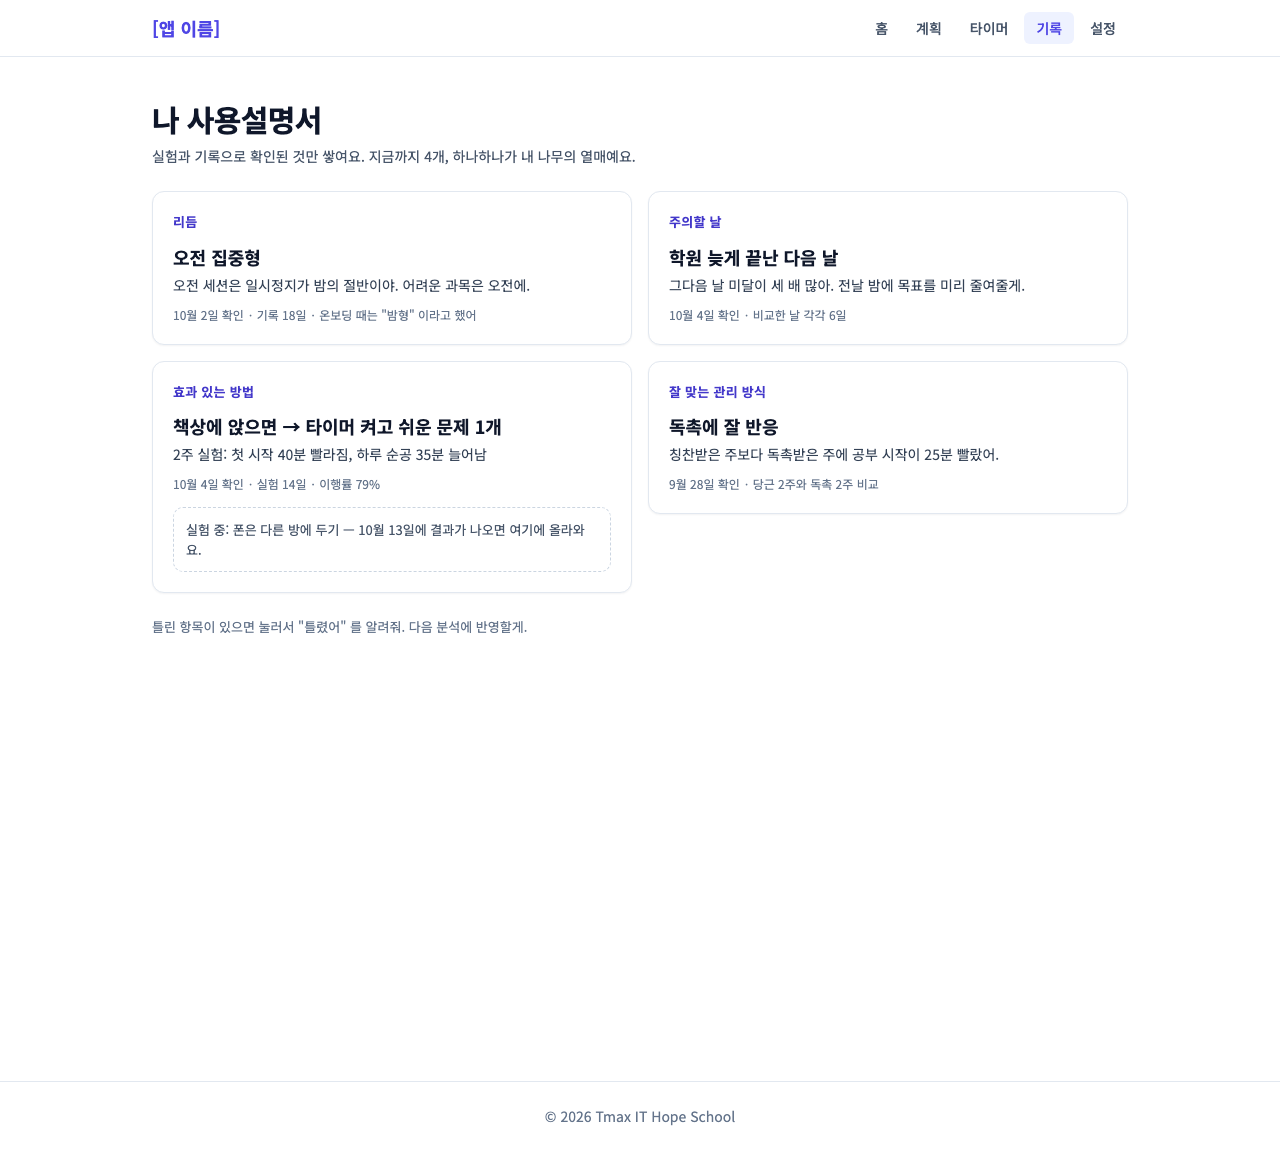
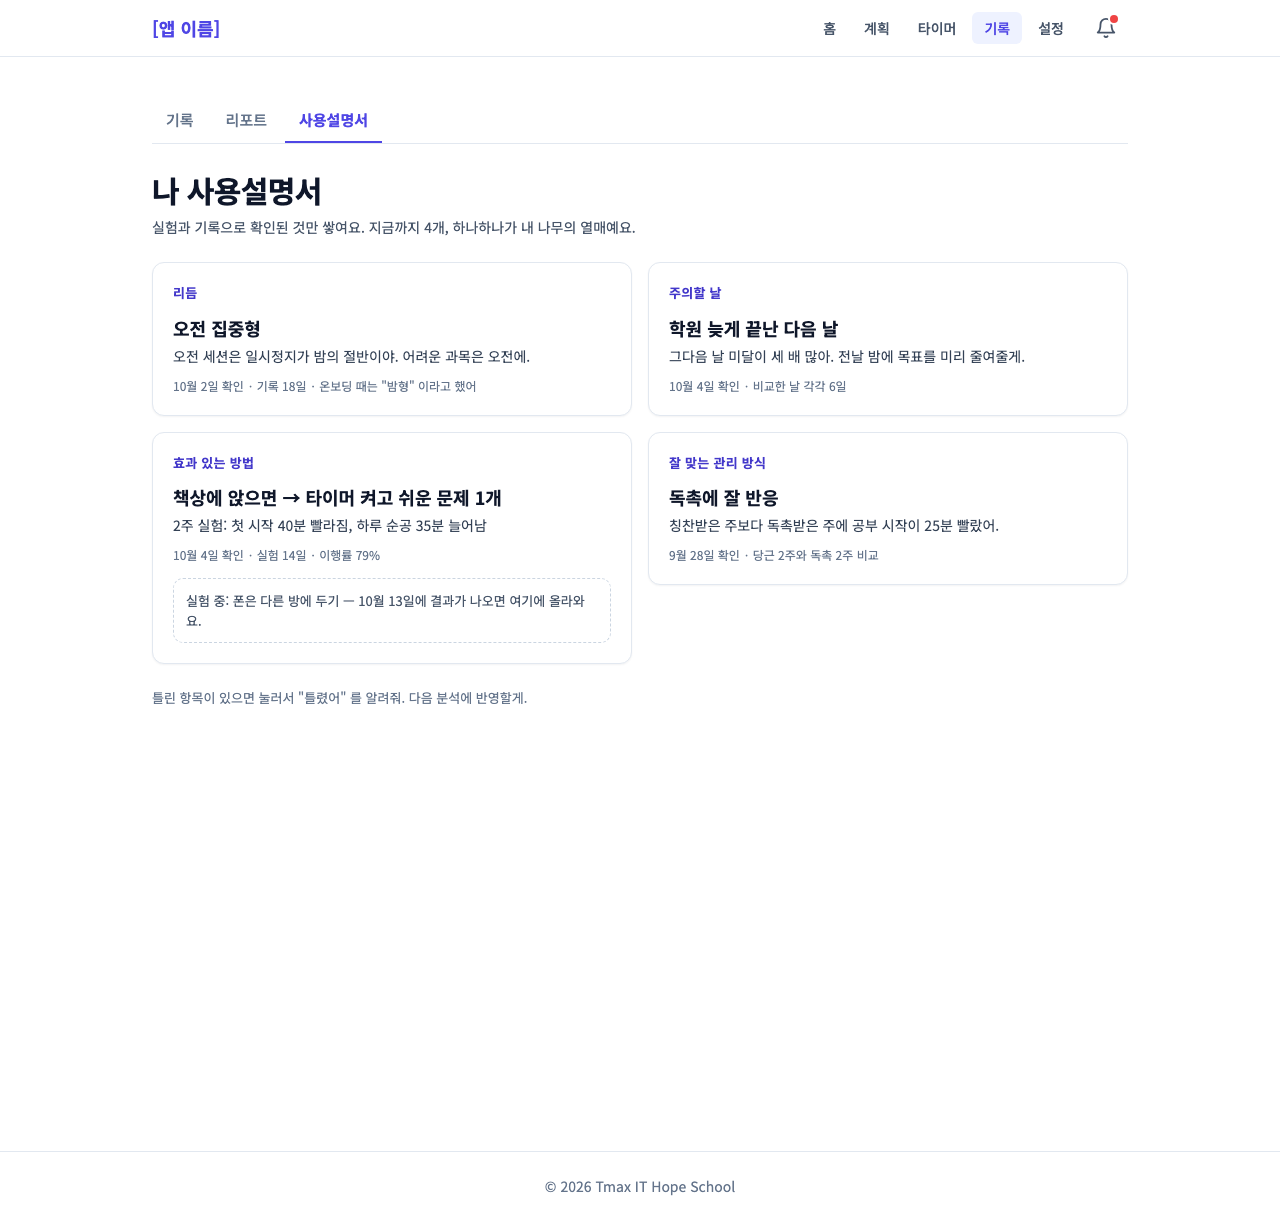
docs: 빠진 화면 시안 추가하고 메뉴 구조대로 안내 정리
로그인·가입·계획·기록·메시지함·시험·일기·월간 리포트·개선안·통화 중·
집중 모드·도움 안내 등 화면 그림을 추가해 51장(375px·1280px)으로 늘리고,
README 를 메뉴 구조(하단 탭·헤더 종 아이콘·기록 하위 탭) 기준으로 다시 정리했습니다.

diff --git a/docs/design/README.md b/docs/design/README.md
@@ -4,98 +4,125 @@
 
 - 데스크톱: 폭 1280px / 모바일: 폭 375px (프로젝트 기준 폭, CLAUDE.md 4장)
 - 그 사이 폭(태블릿)은 그림이 없습니다 → 아래 [반응형으로 만들 때](#반응형으로-만들-때) 를 따릅니다
-- 그림 파일: [`screens/`](./screens/) — 이름 규칙 `<화면>-desktop.png`, `<화면>-mobile.png`
+- 그림 파일: [`screens/`](./screens/) — 이름 규칙 `<화면>-desktop.png`, `<화면>-mobile.png` (모바일 전용 화면은 `-mobile.png` 만)
 
 ## 어떻게 쓰나요?
 
-1. 화면 이슈를 맡으면 아래 표에서 그 화면을 찾아 **데스크톱·모바일 그림을 둘 다** 봅니다.
+1. 화면 이슈를 열면 본문의 **"## 시안"** 칸에 볼 그림이 적혀 있습니다. 데스크톱·모바일 그림을 **둘 다** 봅니다.
 2. Claude 에게 맡길 때는 그림 경로를 같이 알려 주세요.
    > `docs/design/screens/checkin-mobile.png` 과 `checkin-desktop.png` 보고 #24 체크인 화면 만들어줘
 3. 시안은 **모양 참고용**입니다. 부딪히면 이 순서로 따릅니다.
    **[CLAUDE.md](../../CLAUDE.md) 규칙 > 이슈의 완료 조건 > 시안**
 4. 그림 속 숫자·날짜·문구는 전부 **예시**입니다. 실제 값은 데이터(`src/lib/mock.ts` 등)에서 가져옵니다.
 
+## 메뉴 구조
+
+| 자리                          | 들어가는 것                                                      | 관련 이슈 |
+| ----------------------------- | ---------------------------------------------------------------- | --------- |
+| 하단 탭(모바일) · 헤더(PC)    | 홈 · 계획 · 타이머 · 기록 · 설정                                 | #8        |
+| 헤더 오른쪽 종 아이콘         | 메시지함 (빨간 점 = 안 읽은 메시지)                              | #102      |
+| 기록 탭 안 하위 탭            | 기록 · 리포트 · 사용설명서 (리포트 안에 주간 \| 월간)            | #101      |
+| 기록 화면의 카드              | 시험 · 일기                                                      | #80, #63  |
+| 리포트의 "개선안 고르러 가기" | 개선안 고르기                                                    | #64       |
+| 타이머                        | 집중 모드                                                        | #69       |
+| 홈의 버튼                     | 매일 체크인 (통화를 못 받은 날)                                  | #24       |
+| 탭 없이 뜨는 화면             | 전화 수신 · 통화 중 · 로그인 · 가입 · 온보딩 · 위기 시 도움 안내 |           |
+
 ## 화면 목록
 
-### 홈
+### 1. 로그인 · 회원가입
+
+흐름: 로그인 → (SNS 로그인 처리 중 #47) → 가입 정보·동의 → 온보딩 질문 → 준비 끝 → 홈. 만 14세 미만을 고르면 가입 불가 안내.
+
+| 화면           | 데스크톱                                                    | 모바일                                                     | 관련 이슈   |
+| -------------- | ----------------------------------------------------------- | ---------------------------------------------------------- | ----------- |
+| 로그인         | <img src="screens/login-desktop.png" width="360">           | <img src="screens/login-mobile.png" width="180">           | #46         |
+| 가입 정보·동의 | <img src="screens/signup-desktop.png" width="360">          | <img src="screens/signup-mobile.png" width="180">          | #50         |
+| 만 14세 미만   |                                                             | <img src="screens/signup-under14-mobile.png" width="180">  | #50         |
+| 온보딩 질문    | <img src="screens/onboarding-desktop.png" width="360">      | <img src="screens/onboarding-mobile.png" width="180">      | #58 #88 #89 |
+| 준비 끝        | <img src="screens/onboarding-done-desktop.png" width="360"> | <img src="screens/onboarding-done-mobile.png" width="180"> | #103        |
+
+### 2. 홈
 
 관리 모드와 이유 · 어제 한 줄 · 첫 리포트 카운트다운 · 나무 · 오늘 계획 · 인사이트(가설) · 도전 중인 실험
 
 | 데스크톱                                         | 모바일                                          |
 | ------------------------------------------------ | ----------------------------------------------- |
-| <img src="screens/home-desktop.png" width="480"> | <img src="screens/home-mobile.png" width="220"> |
+| <img src="screens/home-desktop.png" width="480"> | <img src="screens/home-mobile.png" width="200"> |
 
-관련 이슈: #94 관리 모드 · #85 한 줄·카운트다운 · #68 나무 · #73 #84 인사이트 · #93 실험 카드 · #12 오늘 계획
+관련 이슈: #94 관리 모드 · #85 한 줄·카운트다운 · #68 나무 · #73 #84 인사이트 · #93 실험 카드 · #102 메시지함 아이콘
 
-### 매일 체크인
+### 3. 공부 계획
+
+날짜 이동 · 오늘 계획(완료 체크·삭제) · 계획 추가 · 내 과목(색 지정)
+
+| 데스크톱                                         | 모바일                                          |
+| ------------------------------------------------ | ----------------------------------------------- |
+| <img src="screens/plan-desktop.png" width="480"> | <img src="screens/plan-mobile.png" width="200"> |
+
+관련 이슈: #11 #13 #15 #16 #17 (#12 #14 는 시안 전에 완료)
+
+### 4. 타이머 · 집중 모드
+
+| 화면           | 데스크톱                                          | 모바일                                                  | 관련 이슈            |
+| -------------- | ------------------------------------------------- | ------------------------------------------------------- | -------------------- |
+| 타이머         | <img src="screens/timer-desktop.png" width="360"> | <img src="screens/timer-mobile.png" width="180">        | #18 ~ #22, #44       |
+| 집중 모드      | <img src="screens/focus-desktop.png" width="360"> | <img src="screens/focus-mobile.png" width="180">        | #69                  |
+| 집중 모드 해제 |                                                   | <img src="screens/focus-unlock-mobile.png" width="180"> | #69 (10초 대기·사유) |
+
+### 5. 매일 체크인
 
 어제 요약 · 컨디션 · 기분 · 미달 원인 · 오늘 예상 순공 · 개선안 실천 · 오늘의 약속
 
 | 데스크톱                                            | 모바일                                             |
 | --------------------------------------------------- | -------------------------------------------------- |
-| <img src="screens/checkin-desktop.png" width="480"> | <img src="screens/checkin-mobile.png" width="220"> |
+| <img src="screens/checkin-desktop.png" width="480"> | <img src="screens/checkin-mobile.png" width="200"> |
 
 관련 이슈: #24 체크인 화면 · #26 미달 원인 · #65 개선안 실천 · #79 오늘의 약속
 
-### 타이머
+### 6. AI 통화
 
-과목 선택 · 큰 시간 표시 · 일시정지·정지 · 오늘 총 순공과 과목별 막대 · 오늘 기록
+| 화면                  | 데스크톱                                                | 모바일                                                     | 관련 이슈       |
+| --------------------- | ------------------------------------------------------- | ---------------------------------------------------------- | --------------- |
+| 전화 수신             |                                                         | <img src="screens/call-incoming-mobile.png" width="180">   | #30             |
+| 통화 중 (자막·음소거) | <img src="screens/call-active-desktop.png" width="360"> | <img src="screens/call-active-mobile.png" width="180">     | #31 #32 #35 #36 |
+| 마이크 꺼짐           |                                                         | <img src="screens/call-mic-denied-mobile.png" width="180"> | #33             |
+| 통화 끊김             |                                                         | <img src="screens/call-failed-mobile.png" width="180">     | #37             |
+| 수신 카드 · 통화 요약 | <img src="screens/call-desktop.png" width="360">        | <img src="screens/call-mobile.png" width="180">            | #30 #38         |
 
-| 데스크톱                                          | 모바일                                           |
-| ------------------------------------------------- | ------------------------------------------------ |
-| <img src="screens/timer-desktop.png" width="480"> | <img src="screens/timer-mobile.png" width="220"> |
-
-관련 이슈: #18 #19 #20 #21 #22 타이머 · #44 과목별 비율
-
-### AI 통화
-
-전화 스타일 수신 카드 · 통화 5단계 · 통화 요약 카드
-
-| 데스크톱                                         | 모바일                                          | 전화 수신 (모바일 전체 화면)                             |
-| ------------------------------------------------ | ----------------------------------------------- | -------------------------------------------------------- |
-| <img src="screens/call-desktop.png" width="480"> | <img src="screens/call-mobile.png" width="220"> | <img src="screens/call-incoming-mobile.png" width="220"> |
-
-관련 이슈: #30 수신 화면 · #32 강도별 말투·색 · #38 통화 요약 카드
-
-### 주간 리포트 · 실험
-
-숫자 3개 · 인사이트(근거 보기·반응 버튼) · 지난 실험 결과 · 진행 중인 실험 · 다음 주 개선안 3개
-
-| 데스크톱                                           | 모바일                                            |
-| -------------------------------------------------- | ------------------------------------------------- |
-| <img src="screens/report-desktop.png" width="480"> | <img src="screens/report-mobile.png" width="220"> |
-
-관련 이슈: #72 주간 리포트 · #73 #84 인사이트 · #93 실험 결과 · #64 개선안 3개
-
-### 나 사용설명서
-
-리듬 · 주의할 날 · 효과 있는 방법 · 잘 맞는 관리 방식
-
-| 데스크톱                                           | 모바일                                            |
-| -------------------------------------------------- | ------------------------------------------------- |
-| <img src="screens/manual-desktop.png" width="480"> | <img src="screens/manual-mobile.png" width="220"> |
-
-관련 이슈: #87 나 사용설명서
-
-### 설정
-
-관리 강도 한도 · 독설 수위 · 잠금·독촉 허용 · 전화 시간·메시지 횟수 · 연락 금지 시간 · 내 데이터 · 도움받기(1388·109)
+### 7. 메시지함
 
 | 데스크톱                                             | 모바일                                              |
 | ---------------------------------------------------- | --------------------------------------------------- |
-| <img src="screens/settings-desktop.png" width="480"> | <img src="screens/settings-mobile.png" width="220"> |
+| <img src="screens/messages-desktop.png" width="480"> | <img src="screens/messages-mobile.png" width="200"> |
 
-관련 이슈: #59 한도 · #60 메시지·연락 금지 · #39 통화 시간 · #90 데이터 삭제 · #96 도움받기
+관련 이슈: #61 메시지함 · #62 알림 · #102 헤더 종 아이콘
 
-### 온보딩
+### 8. 기록 (기록 탭)
 
-질문 한 화면 예시 (자기 인식: 아침형/밤형). 다른 질문도 같은 틀을 씁니다.
+| 화면             | 데스크톱                                                | 모바일                                                 | 관련 이슈            |
+| ---------------- | ------------------------------------------------------- | ------------------------------------------------------ | -------------------- |
+| 기록             | <img src="screens/records-desktop.png" width="360">     | <img src="screens/records-mobile.png" width="180">     | #40 ~ #43, #45, #101 |
+| 시험             | <img src="screens/exams-desktop.png" width="360">       | <img src="screens/exams-mobile.png" width="180">       | #80                  |
+| 시험 결과 · 회고 | <img src="screens/exam-result-desktop.png" width="360"> | <img src="screens/exam-result-mobile.png" width="180"> | #81                  |
+| 일기             | <img src="screens/diary-desktop.png" width="360">       | <img src="screens/diary-mobile.png" width="180">       | #63                  |
+| 성찰 일기        | <img src="screens/reflection-desktop.png" width="360">  | <img src="screens/reflection-mobile.png" width="180">  | #70                  |
 
-| 데스크톱                                               | 모바일                                                |
-| ------------------------------------------------------ | ----------------------------------------------------- |
-| <img src="screens/onboarding-desktop.png" width="480"> | <img src="screens/onboarding-mobile.png" width="220"> |
+### 9. 리포트 · 개선안 (기록 탭)
 
-관련 이슈: #58 설문 틀 · #88 #89 질문 묶음
+| 화면                    | 데스크톱                                                | 모바일                                                 | 관련 이슈           |
+| ----------------------- | ------------------------------------------------------- | ------------------------------------------------------ | ------------------- |
+| 주간 리포트 · 실험      | <img src="screens/report-desktop.png" width="360">      | <img src="screens/report-mobile.png" width="180">      | #72 #73 #84 #93 #64 |
+| 월간 리포트 · 성장 곡선 | <img src="screens/monthly-desktop.png" width="360">     | <img src="screens/monthly-mobile.png" width="180">     | #86 #71             |
+| 개선안 고르기           | <img src="screens/suggestions-desktop.png" width="360"> | <img src="screens/suggestions-mobile.png" width="180"> | #64                 |
+| 나 사용설명서           | <img src="screens/manual-desktop.png" width="360">      | <img src="screens/manual-mobile.png" width="180">      | #87                 |
+
+### 10. 설정 · 도움 안내
+
+| 화면                          | 데스크톱                                             | 모바일                                              | 관련 이슈                      |
+| ----------------------------- | ---------------------------------------------------- | --------------------------------------------------- | ------------------------------ |
+| 설정                          | <img src="screens/settings-desktop.png" width="360"> | <img src="screens/settings-mobile.png" width="180"> | #39 #59 #60 #90 #96            |
+| 도움 안내 (위기 표현 감지 시) | <img src="screens/support-desktop.png" width="360">  | <img src="screens/support-mobile.png" width="180">  | #96 (#95 안전 브레이크가 띄움) |
 
 ## 반응형으로 만들 때
 
@@ -110,9 +137,9 @@
 | 데스크톱 화면 폭                             | `Layout` 의 `max-w-5xl` 이 정합니다. 페이지에 고정 너비(`w-[1280px]` 등)를 쓰지 않습니다 |
 | 같은 크기 버튼 여러 개 한 줄 (컨디션 1~5)    | `grid grid-cols-5 gap-2` — 375px 에서도 한 줄                                            |
 | 길이가 다른 버튼 여러 개 (미달 원인 7개)     | `flex flex-wrap gap-2` — 넘치면 다음 줄로                                                |
+| 기록 하위 탭처럼 옆으로 긴 막대              | 그 막대에만 `overflow-x-auto` (페이지 전체 가로 스크롤은 금지)                           |
 
-⚠ **375px 에서 한글이 단어 중간에서 끊기는 곳**이 그림에 있습니다.
-체크인의 기분 버튼 "많이 처/짐", "아주 좋/음", 예상 시간 "5시간/+" 입니다. 만들 때는 이렇게 막습니다.
+⚠ **375px 에서 한글이 단어 중간에서 끊기는 곳**이 있습니다. (예: 체크인 기분 버튼 "많이 처/짐", "5시간/+")
 
 - `break-keep` — 한글을 단어 단위로 줄바꿈 (Tailwind 클래스)
 - 글자를 줄이기 — "아주 좋음" → "최고", "5시간+" → "5+"
@@ -122,29 +149,26 @@
 
 ## 시안이 없는 화면
 
-아래 화면은 아직 그림이 없습니다. **비슷한 화면의 카드·버튼·간격을 그대로 따라** 만들어 주세요.
+아래는 아직 그림이 없습니다. **비슷한 화면의 카드·버튼·간격을 그대로 따라** 만들어 주세요.
 
-| 화면                           | 관련 이슈      | 참고할 시안                    |
-| ------------------------------ | -------------- | ------------------------------ |
-| 공부 계획                      | #12 ~ #17      | 홈의 "오늘 계획" 카드          |
-| 로그인·가입                    | #46 ~ #50      | 온보딩                         |
-| 기록 목록·달력·연속 공부일     | #40 ~ #43, #45 | 타이머의 "오늘 기록"           |
-| 메시지함                       | #61            | 통화 요약 카드                 |
-| 일기·성찰 일기                 | #63, #70       | 체크인의 "오늘의 약속" 입력칸  |
-| 시험 등록·결과                 | #80, #81       | 설정의 입력 카드               |
-| 월간 리포트                    | #86            | 주간 리포트                    |
-| 개선안 고르기 (`/suggestions`) | #64            | 주간 리포트의 "다음 주 개선안" |
-| 집중 모드                      | #69            | 타이머                         |
+| 화면                         | 관련 이슈   | 참고할 시안                              |
+| ---------------------------- | ----------- | ---------------------------------------- |
+| 첫날(기록이 없을 때) 빈 화면 | #85 #72 #87 | 각 화면의 "아직 없어요" 문구 + 카드 모양 |
+| 주간 회고 (3문항)            | #82         | 시험 결과의 "회고 3문항"                 |
+| 목표 조정 제안 팝업          | #67         | `Modal`(#9) + 개선안 카드                |
+| 관리 모드 설명 팝업          | #94         | `Modal`(#9) + 설정의 관리 강도 목록      |
+| 온보딩의 다른 질문 형태      | #58 #88 #89 | 온보딩 질문 화면 + 가입 정보 입력칸      |
+| 뽀모도로 모드                | #23         | 타이머                                   |
+| SNS 로그인 처리 중·실패      | #47         | 통화 끊김 화면 (아이콘 + 안내 + 버튼)    |
 
 ## 실제 프로젝트와 다른 점
 
 - **앱 이름**이 아직 없어서 헤더에 `[앱 이름]` 으로 적혀 있습니다.
 - **버튼 높이**가 그림에서는 44px 입니다. 프로젝트 규칙은 "최소 40px(`h-10`)" 이라 `h-10` 또는 `h-11` 로 만들면 됩니다.
 - **글꼴**이 그림과 조금 다를 수 있습니다. (그림은 Noto Sans KR, 프로젝트는 `index.css` 의 Pretendard → 시스템 글꼴)
-- **체크인·통화**는 하단 탭에 없고, 홈의 버튼으로 들어갑니다.
-- 그림의 **"계획" 탭**은 아직 화면이 없어서 눌러도 아무 데도 가지 않습니다.
+- **SNS 버튼 로고**는 그림에서 단순하게 그렸습니다. 만들 때는 각 SNS 공식 버튼 가이드의 로고·색을 따릅니다. (#46, 어떤 SNS 를 쓸지는 BE 와 정함)
 
 ## 원본
 
-눌러 볼 수 있는 원본 시안은 claude.ai 에 있습니다. (원본의 모바일은 390px 로 그려져 있고, 이 폴더의 그림은 375px 로 다시 뽑은 것입니다) 비공개라서, 보려면 관리자(@gusdn3477)에게 공유를 요청하세요.
-그림을 다시 뽑아야 하면(시안 수정 등) 관리자에게 말해 주세요.
+눌러 볼 수 있는 원본 시안: https://claude.ai/artifact/STqvcVYUggfiPWBqkjHFS8 (링크가 있으면 볼 수 있습니다)
+원본의 모바일은 390px 로 그려져 있고, 이 폴더의 그림은 375px 로 다시 뽑은 것입니다. 시안이 바뀌어 그림을 다시 뽑아야 하면 관리자에게 말해 주세요.
